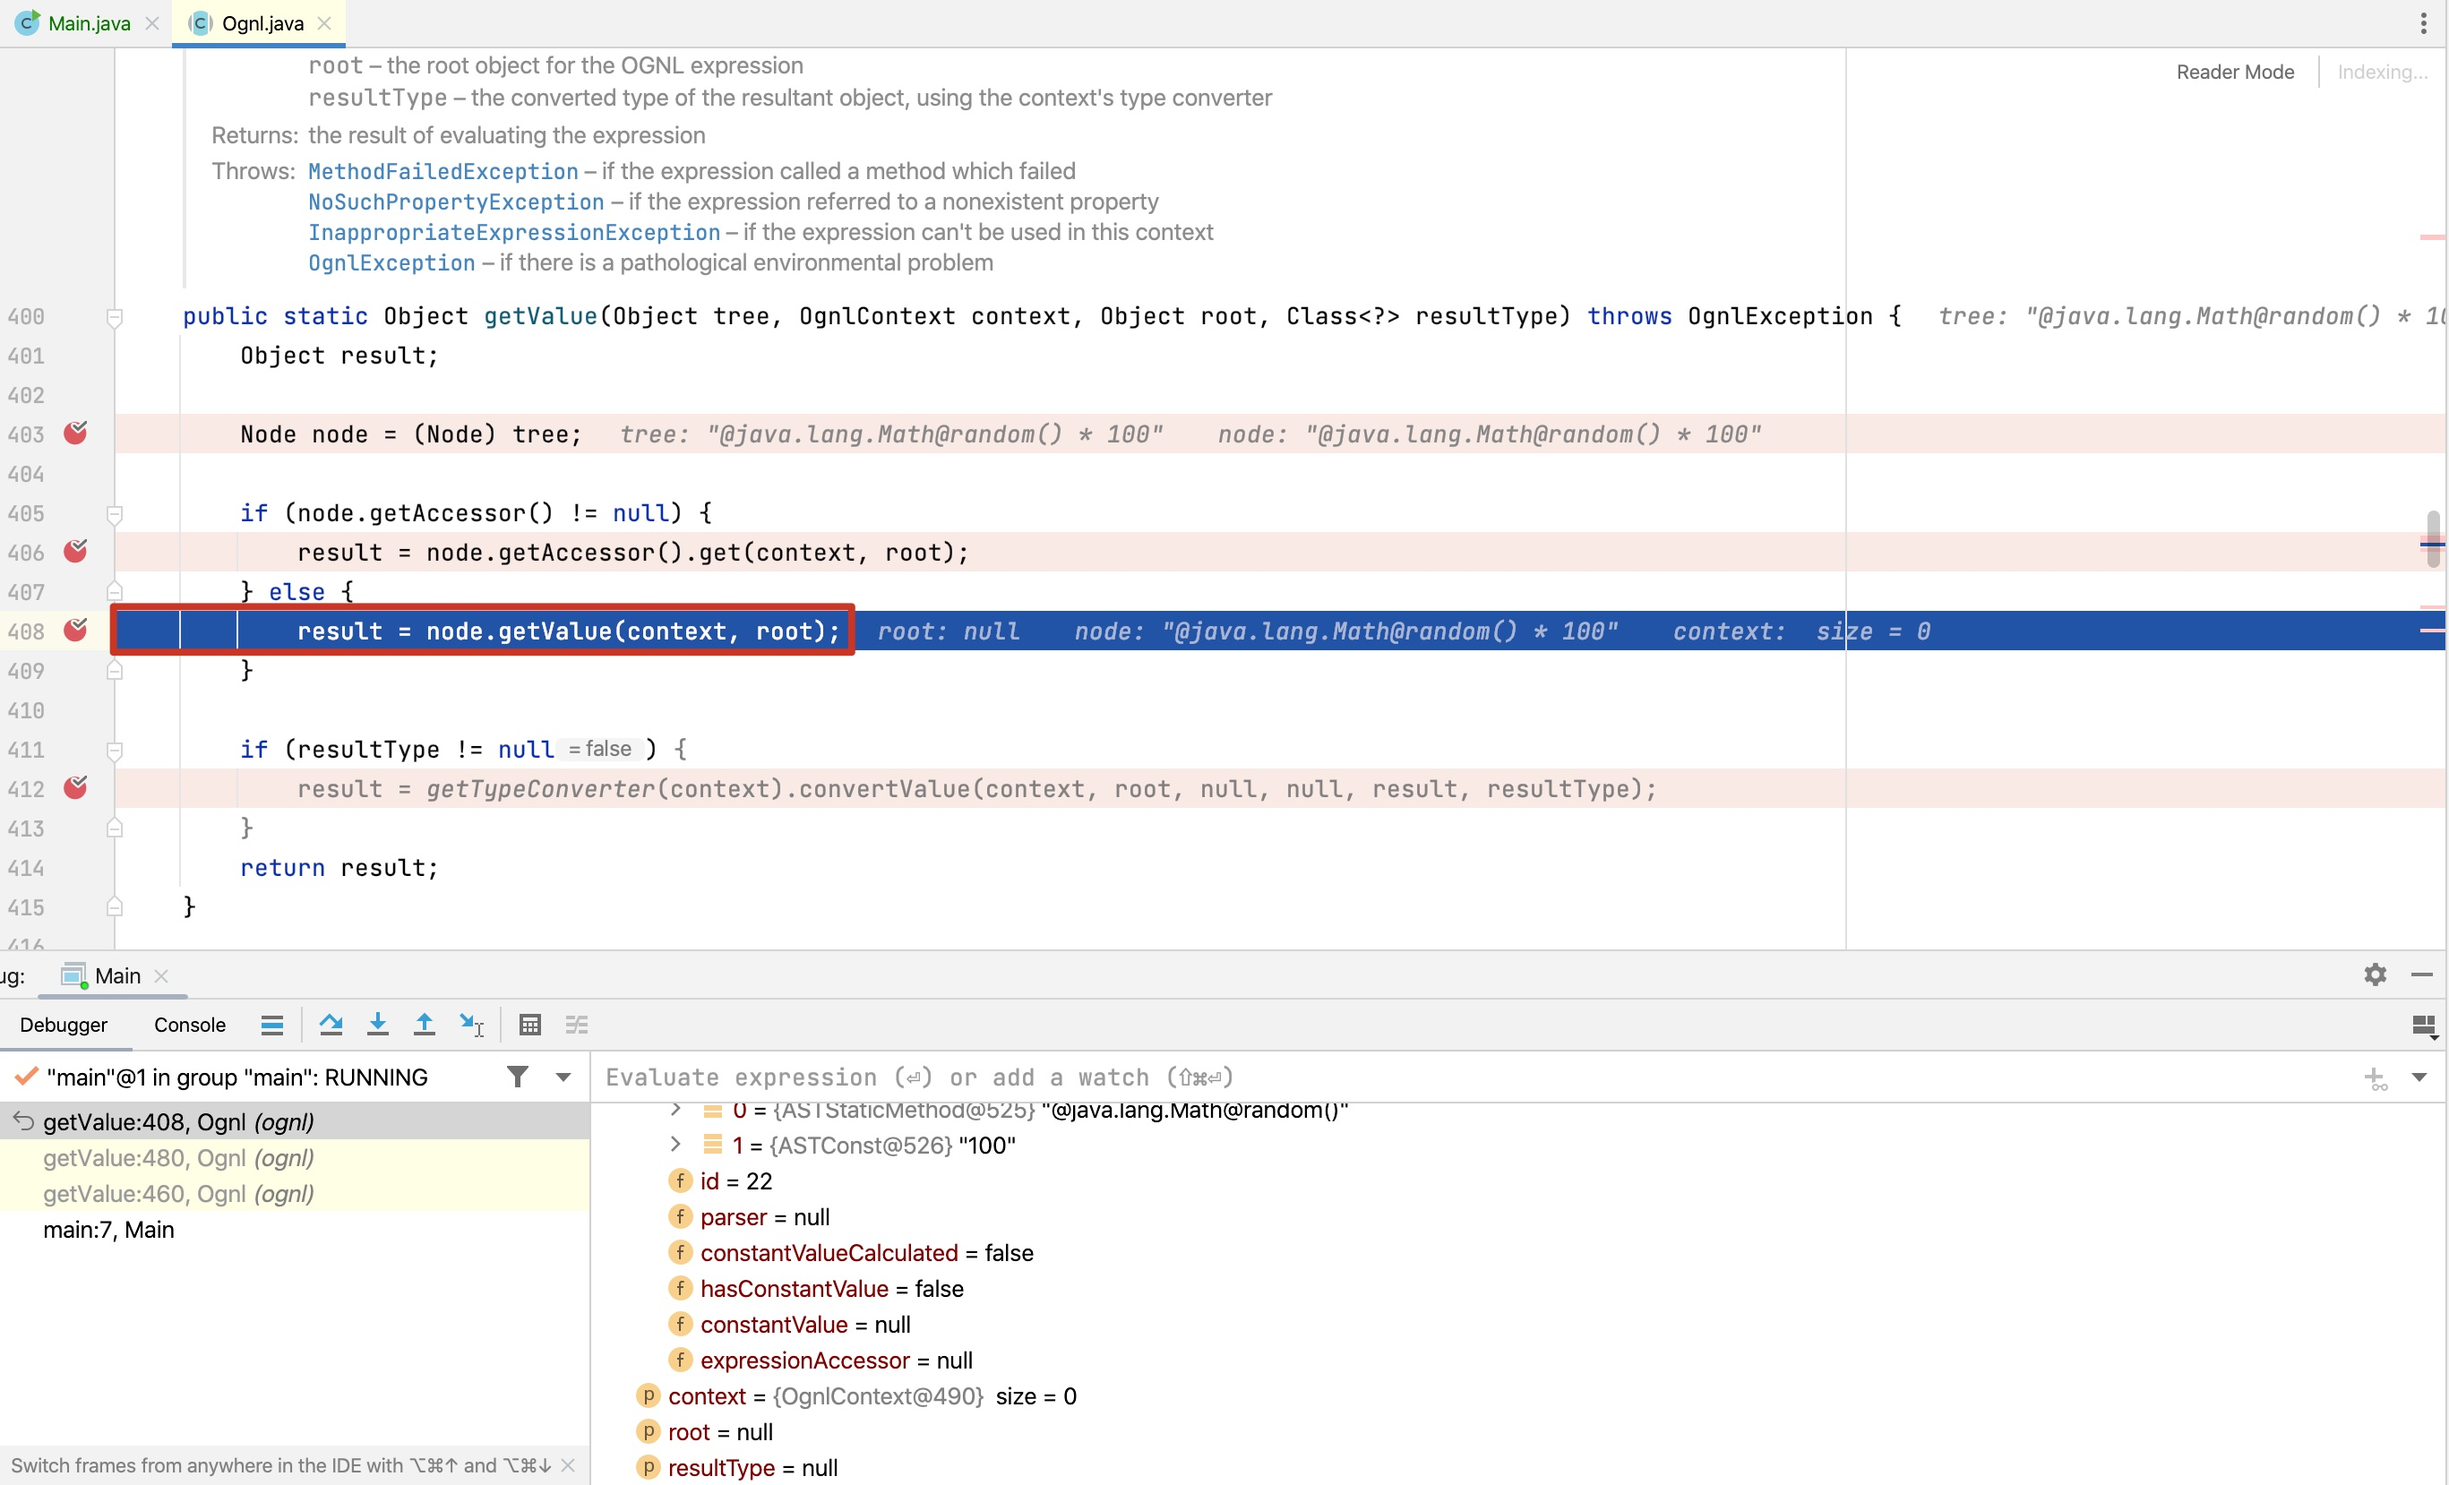
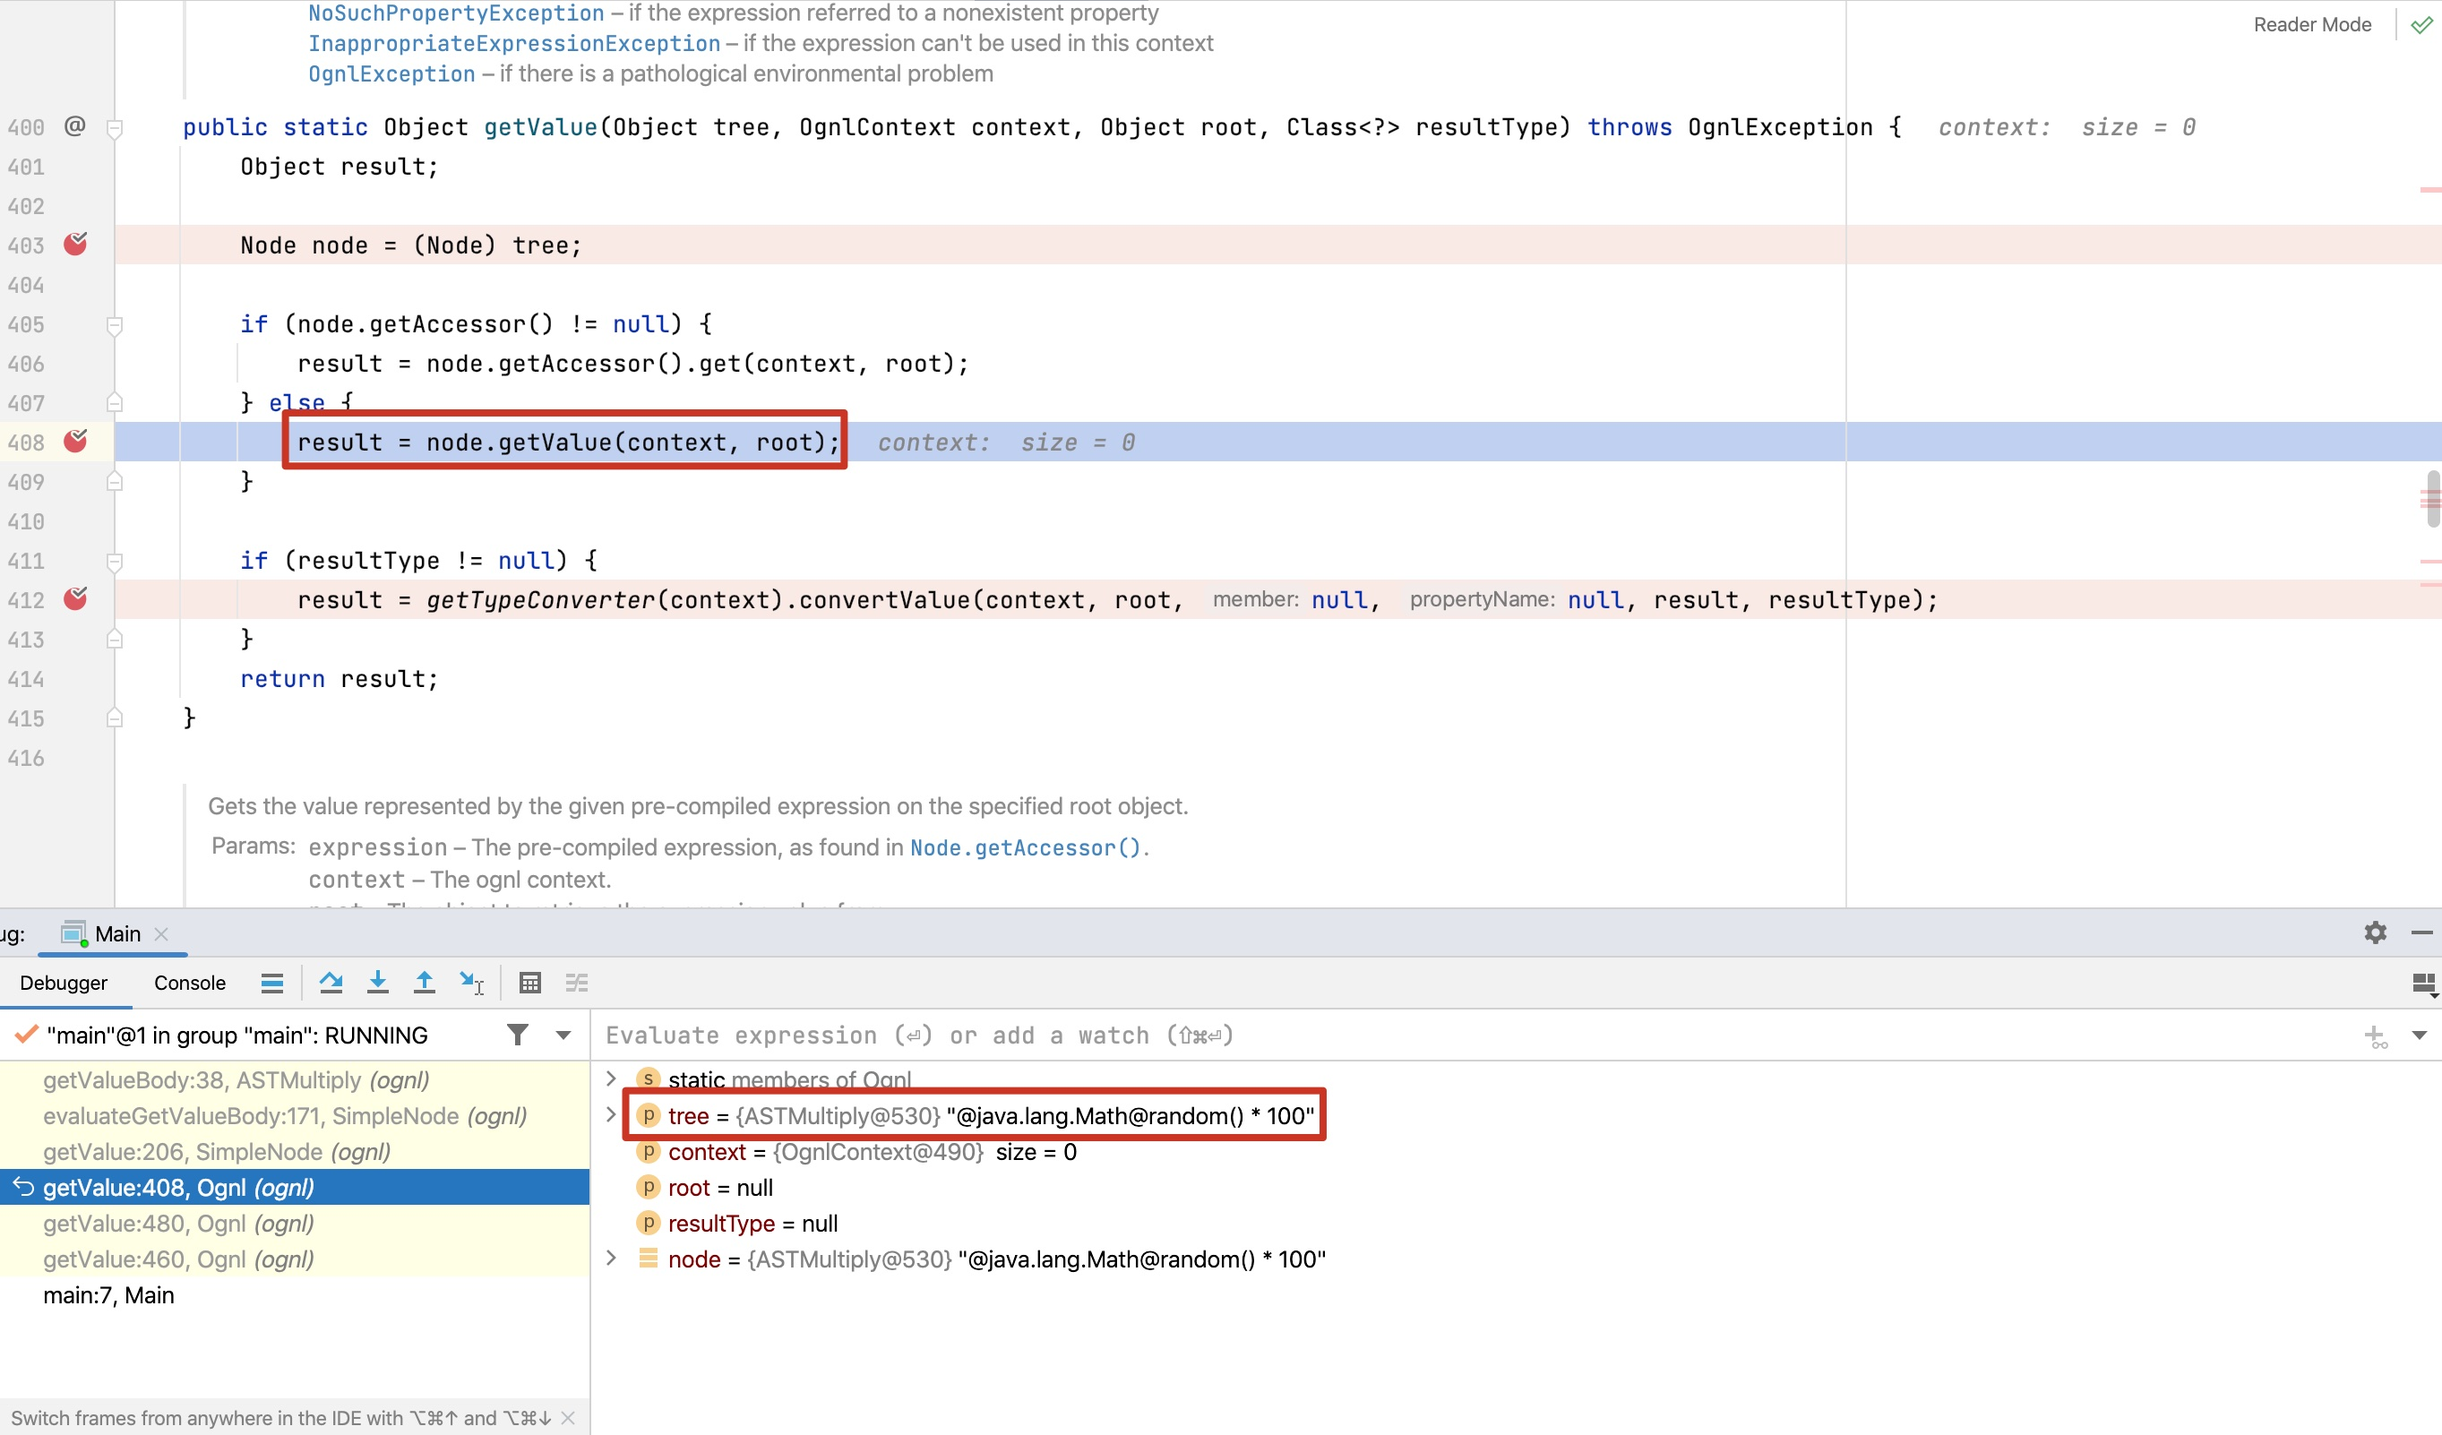
update

diff --git a/docs/book/expression/1.md b/docs/book/expression/1.md
@@ -8,14 +8,14 @@
 ```java
 ExpressionParser parser = new SpelExpressionParser();
 Expression exp = parser.parseExpression("'Hello World'"); 
-String message = (String) exp.getValue();
+String value = (String) exp.getValue();
 ```
 
 + 调用方法
 ```java
 ExpressionParser parser = new SpelExpressionParser();
 Expression exp = parser.parseExpression("'Hello World'.concat('!')"); 
-String message = (String) exp.getValue();
+String value = (String) exp.getValue();
 ```
 + 访问属性
 ```java
@@ -41,19 +41,14 @@ java.lang包下的类可以使用短名称，如下例子：
 // 调用String类的构造器创建一个新的字符串并将其转换为大写
 ExpressionParser parser = new SpelExpressionParser();
 Expression exp = parser.parseExpression("new String('hello world').toUpperCase()"); 
-String message = exp.getValue(String.class);
+String value = exp.getValue(String.class);
 ```
 
 使用完全限定类名创建对象，如下所示：
 ```java
-Inventor einstein = p.parseExpression(
-        "new org.spring.samples.spel.inventor.Inventor('Albert Einstein', 'German')")
-        .getValue(Inventor.class);
-
-//create new inventor instance within add method of List
-p.parseExpression(
-        "Members.add(new org.spring.samples.spel.inventor.Inventor(
-            'Albert Einstein', 'German'))").getValue(societyContext);
+ExpressionParser parser = new SpelExpressionParser();
+Expression exp = parser.parseExpression("new java.lang.String('hello world').toUpperCase()");
+String value = exp.getValue(String.class);
 ```
 
 + T运算符
@@ -66,7 +61,7 @@ Class dateClass = parser.parseExpression("T(java.util.Date)").getValue(Class.cla
 
 Class stringClass = parser.parseExpression("T(String)").getValue(Class.class);
 
-boolean trueValue = parser.parseExpression(
+boolean value = parser.parseExpression(
         "T(java.math.RoundingMode).CEILING < T(java.math.RoundingMode).FLOOR")
         .getValue(Boolean.class);
 ```
@@ -84,7 +79,7 @@ boolean trueValue = parser.parseExpression(
 在了解其API的使用之后，应该深入分析其实现原理，这是选取合适Hook类的关键，因此源码分析是十分必要的。
 本节将对SpEL表达式语法解析、编译和执行过程做一个Debug（代码以图片的形式展现）。
 
-下面的代码执行一个简单的表达式，调用Math类的静态方法random生成一个随机数并乘以100.0，然后获取表达式的值并输出。
+下面的代码执行一个简单的表达式，调用java.lang.Math类的静态方法random生成一个随机数并乘以100.0，然后获取表达式的值并输出。
 > 图10-2 Debug的表达式代码
 
 ![图10-2 Debug的表达式代码](../../.vuepress/public/images/book/expression/img/10-2.jpg)
@@ -155,8 +150,12 @@ AST语法树的root节点是一个乘法操作OpMultiply对象，来看下他的
 第一部分是T(java.lang.Math)，是一个TypeReference类型的节点，其计算过程如下：
 > 图10-12 TypeReference类型值的计算
 
-![图10-12 TypeReference类型值的计算](../../.vuepress/public/images/book/expression/img/10-12.jpg)
+![图10-12 TypeReference类型值的计算](../../.vuepress/public/images/book/expression/img/Xnip2024-04-25_08-16-51.jpg)
 可以看出T运算符号用来获取类型的java.lang.Class对象。
+
+加载指定的类获取Class对象，这个是后面反射执行方法的基础。
+![图10-12 TypeReference类型值的计算](../../.vuepress/public/images/book/expression/img/Xnip2024-04-25_08-17-16.jpg)
+
 
 第二部分是一个MethodReference节点，其计算过程如下：
 > 图10-13 MethodReference类型值的计算

diff --git a/docs/book/expression/2.md b/docs/book/expression/2.md
@@ -153,7 +153,7 @@ public class Main {
 
 ![图10-17 Ognl.getValue对表达式进行初步处理](../../.vuepress/public/images/book/expression/img/10-17.jpg)
 
-在图10-17中的代码480处，实际调用了`parseExpression`对表达式的解析，并将解析的返回结果作为getValue方法的入参，
+在图10-17中的代码480行处，实际调用了`parseExpression`对表达式的解析，并将解析的返回结果作为getValue方法的入参，
 来看下parseExpression对表达式的解析。
 > 图10-18 Ognl.parseExpression对表达式的处理
 
@@ -176,11 +176,13 @@ root节点下面有2个子节点分别ASTStaticMethod和ASTConst类型节点。
 
 在获取了表达式的AST语法树之后，开始计算表达式的节点的值。
 
-![图10-20 计算节点Node的值](../../.vuepress/public/images/book/expression/img/10-20.jpg)
+![图10-20 计算节点root节点的值](../../.vuepress/public/images/book/expression/img/10-20.jpg)
 
-这里的Node是一个接口，看下他的子类，
+root节点的类型是ASTMultiply，来看下的值的计算方法：
 
-![图10-21 Node接口的子类](../../.vuepress/public/images/book/expression/img/10-21.jpg)
+![图10-21 Node接口的子类](../../.vuepress/public/images/book/expression/img/10-29.jpg)
+
+获取第一个节点的值，然后与下一个子节点的值相乘。
 
 上面代码的第408行处，实际会调用子类的getValue方法计算具体的值。
 
@@ -188,19 +190,25 @@ root节点下面有2个子节点分别ASTStaticMethod和ASTConst类型节点。
 
 ![图10-22 SimpleNode类的getValue方法](../../.vuepress/public/images/book/expression/img/10-22.jpg)
 
-实际调用evaluateGetValueBody()，来看下这个方法。
+实际调用evaluateGetValueBody，来看下这个方法。
 ![图10-23 SimpleNode类的evaluateGetValueBody方法](../../.vuepress/public/images/book/expression/img/10-23.jpg)
 
-在代码第171行，evaluateGetValueBody()在计算非常量情况的结果时会调用子类的getValueBody。
+在代码第171行，evaluateGetValueBody在计算非常量情况的结果时会调用子类的getValueBody。
 
 Ognl在处理节点时分为多种情况进行处理：ASTChain、ASTConst、ASTCtor、ASTInstanceof、ASTList、ASTMethod、ASTStaticField、ASTStaticMethod等。
 
 ![图10-23 Node接口的uml](../../.vuepress/public/images/book/expression/img/10-24.jpg)
 
+在本例子中，表达式的第一个子节点类型是ASTStaticMethod，来看下他的getValueBody方法的实现。
 ![图10-23 Node接口的uml](../../.vuepress/public/images/book/expression/img/10-25.jpg)
 
+实际调用OgnlRuntime类的callStaticMethod方法。
 ![图10-23 Node接口的uml](../../.vuepress/public/images/book/expression/img/10-26.jpg)
 
+继续跟进这个方法的实现，调用了ObjectMethodAccessor的callMethod方法
 ![图10-23 Node接口的uml](../../.vuepress/public/images/book/expression/img/10-27.jpg)
 
+最终调用的方法是OgnlRuntime的静态方法invokeMethod。
 ![图10-23 Node接口的uml](../../.vuepress/public/images/book/expression/img/10-28.jpg)
+
+至此，表达式的子节点的值全部计算完成，root节点将全部子节点的值相乘得到表达式的值。

diff --git a/docs/book/expression/4.md b/docs/book/expression/4.md
@@ -2,12 +2,26 @@
 
 ### 10.4.1 Hook点的选择
 
-对于SPEL表达式注入，选择类org.springframework.expression.common.TemplateAwareExpressionParser
-的`parseExpression`方法，该方法的源码如下：
++ SPEL表达式注入
 
-![img_8.png](img_8.png)
+选择类org.springframework.expression.common.TemplateAwareExpressionParser
+的`parseExpression`方法。
+该方法的源码如下，通过前面一节的分析，该方法能够获取需要执行的原始表达式。
+![图10-23 Node接口的uml](../../.vuepress/public/images/book/expression/img/Xnip2024-04-24_22-42-34.jpg)
+
+从源码分析可以知道SPEL表达式的执行分为2步：第一步是查找类的Class对象，即调用
+org.springframework.expression.spel.support.StandardTypeLocator的findType方法，
+
+![图10-23 Node接口的uml](../../.vuepress/public/images/book/expression/img/Xnip2024-04-25_08-27-26.jpg)
+
+第二步是反射调用方法，表达式中方法的执行最终都在org.springframework.expression.spel.support.ReflectiveMethodExecutor类的execute方法完成，
+其源码如下：
+
+![图10-23 Node接口的uml](../../.vuepress/public/images/book/expression/img/Xnip2024-04-25_08-31-24.jpg)
+
 
 对于OGNL表达式注入，选择类ognl.OgnlParser的`topLevelExpression`方法，该方法的源码如下：
+
 
 ![截屏2024-04-05 下午6.03.16.png](img_9.png)
 
@@ -44,23 +58,27 @@ T(ClassLoader).getSystemClassLoader().loadClass("java.lang.Runtime").getRuntime(
 T(ClassLoader).getSystemClassLoader().loadClass("java.lang.ProcessBuilder").getConstructors()[1].newInstance(new String[]{"open","/System/Applications/Calculator.app"}).start()
 ```
 
-### 10.4.2.2 黑名单检测算法
+### 10.4.2.2 类与方法黑名单
 
-检测表达式中是否存在指定的类，这些类能够执行命令、脚本或者读取文件等，但是这种方式存在
+检测表达式中是否存在指定的类，这些类能够执行命令、脚本或者读取文件等，常见的黑名单如下：
 ```java
-System
-Runtime
-ProcessBuilder
 java.lang.Runtime
 java.lang.ProcessBuilder
-javax.script.ScriptEngineManager
+java.lang.UNIXProcess
+java.lang.ProcessImpl
+java.lang.Classloader
+java.lang.Class
+java.lang.Thread
+java.lang.ThreadGroup
 java.lang.System
+java.net.URL
+java.net.URLClassLoader
+javax.naming.InitialContext
+javax.script.ScriptEngineManager
 org.springframework.cglib.core.ReflectUtils
-java.io.File
-java.net.URL        
-javax.management.remote.rmi.RMIConnector
-// ....
+// 。。。
 ```
+
 
 ### 10.4.2.3 表达式最大长度限制
 
@@ -88,9 +106,5 @@ T(org.apache.commons.io.IOUtils).toString(T(java.lang.Runtime).getRuntime().exec
         .getInputStream())
 ```
 这种方式容易误报，特殊的业务场景会用到较长的表达式，而且表达式的长度需要收集业务特征来确定，运营成本较高。
-
-
-下图为SPEL表达式的常用检测算法，黑名单算法的优先级高于长度限制算法。
- ![img_10.png](img_10.png)
 
 参考：https://xz.aliyun.com/t/9245?time__1311=n4%2BxuDgD9DyDRGCDCD0DBMb7evwoa4ECDfrD&alichlgref=https%3A%2F%2Fbaidu.com%2F
